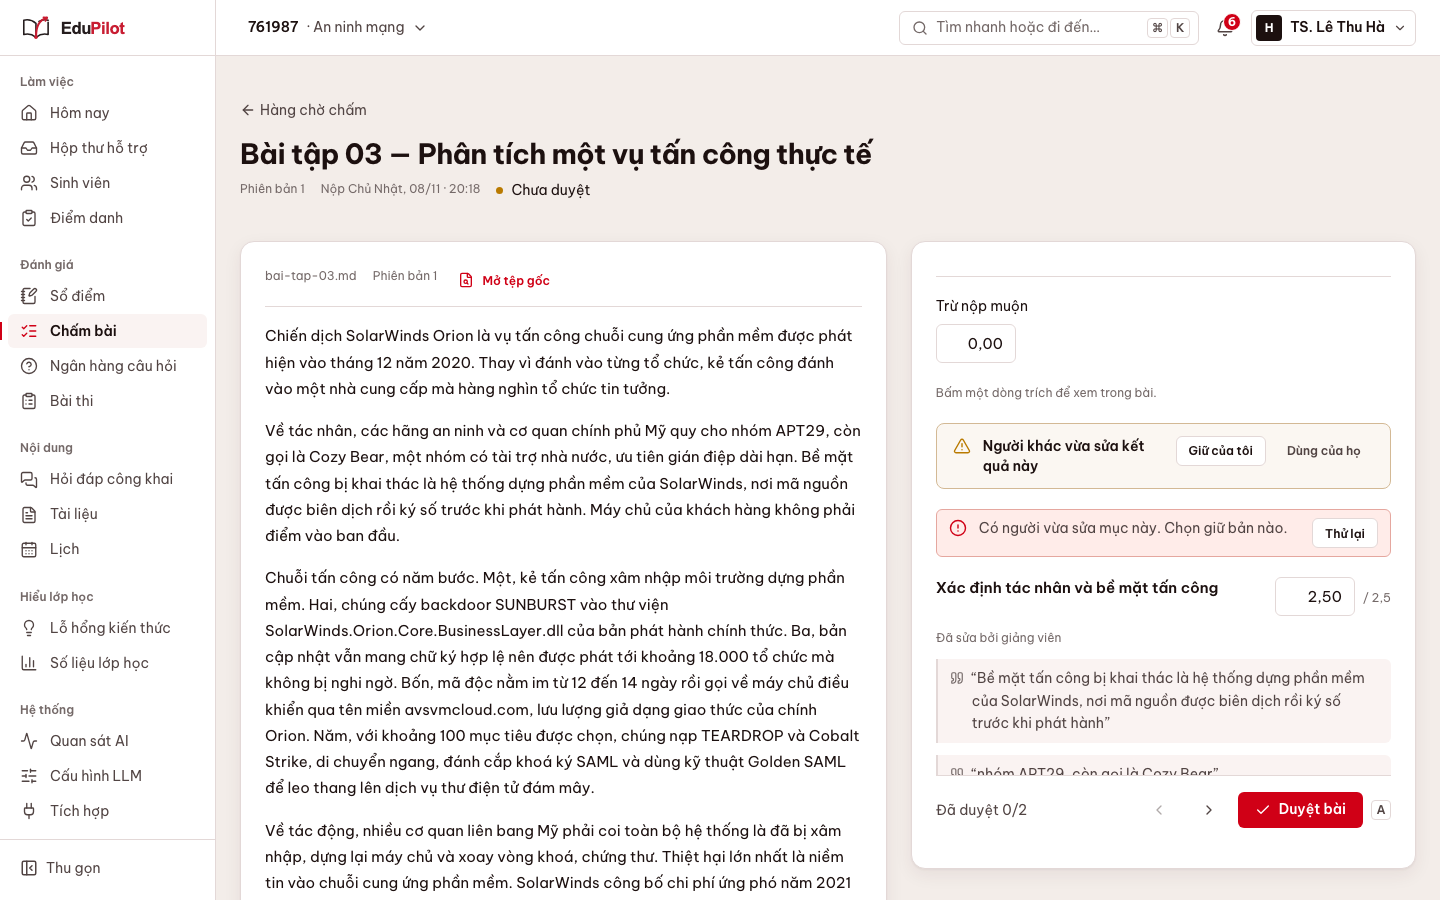
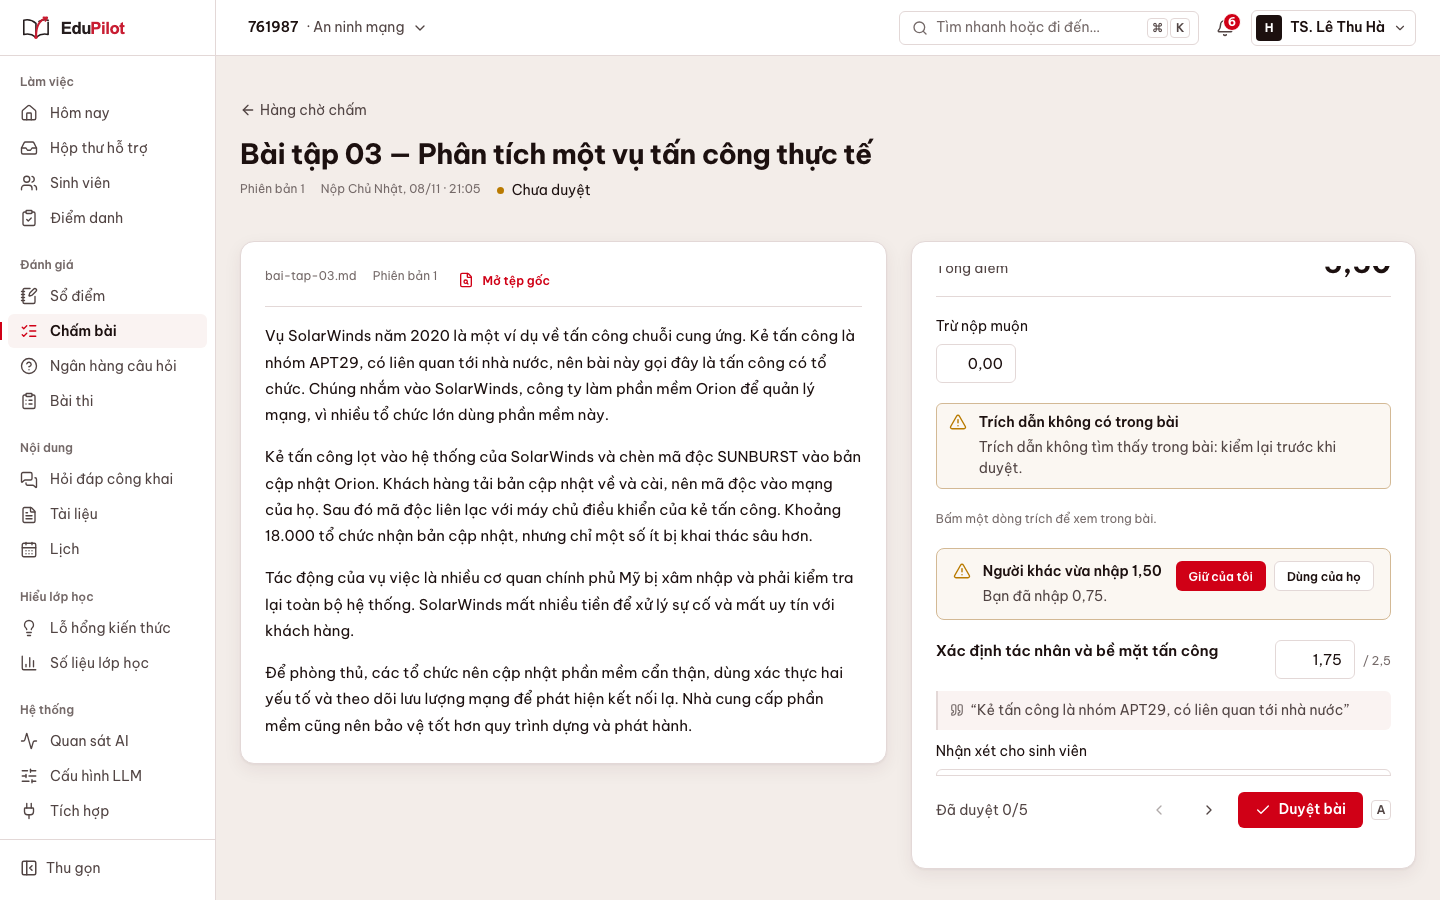
9.1: QC đợt 4 lượt 3 ở 673441c5: PASS (UX15-14 409 đạt, UX16-24 30/30 trên DB sạch)

diff --git a/docs/sprints/9.1/qc/wave-4.md b/docs/sprints/9.1/qc/wave-4.md
@@ -1,15 +1,15 @@
 # QC đợt 4 — Chấm bài, sổ điểm, điểm danh (US-UX91-14, 15, 16, 12) + US-04 AC7
 
-**Kết luận lượt 2 (`8ae5393f`, gồm sửa của dev `1ebfa26e` + `ed0aa499`): FAIL.** US-14 PASS · US-12 PASS · US-16 PASS (riêng TC-UX16-24 chờ chạy lại trên DB sạch, xem dưới) · US-15 **FAIL** vì AC7 nhánh 409 (lỗi mới #8, mức Trung bình). 7 lỗi lượt 1: 7 đã sửa. Lượt 1 (`f8a744bd`): FAIL (US-15, 16, 12).
+**Kết luận lượt 3 (`673441c5`, dev: «sửa QC đợt 4 lỗi #8»): PASS.** US-14, 15, 16, 12 PASS; US-04 AC7 PASS. 8/8 lỗi đã sửa. Lượt 2 (`8ae5393f`): FAIL vì US-15 AC7 nhánh 409 (lỗi #8, Trung bình). Lượt 1 (`f8a744bd`): FAIL (US-15, 16, 12).
 Môi trường lượt 2: Mac (Apple Silicon, Colima), stack `-p ep-qc` `EP_PORT_OFFSET=500` (`https://localhost:943`), mock LLM, seed 30 SV + docling; spec `qc-uiux91-w4*-real` (+ `w4f`, `w4g` mới).
 
-## Kiểm lại lần 2 ở `8ae5393f`
+## Kiểm lại lần 2 (`8ae5393f`) và lần 3 (`673441c5`)
 | TC | Trước | Nay | Ghi chú |
 | --- | --- | --- | --- |
 | UX15-6 (AC3 thanh dưới) | FAIL (Thấp) | PASS | 1440×900 lúc mở: `top 775, bottom 844` (< 900), `sticky`, nút `Duyệt bài` đủ |
 | UX15 tiến độ N/M (AC3, AC4) | FAIL (Thấp) | PASS | `Đã duyệt 0/7` → bấm → `?n=1&m=7`, `Đã duyệt 1/7`; phím `A` → `2/7` (M cố định) |
 | UX15-13 (AC7 lỗi mạng) | FAIL (TB) | PASS | Chặn `POST …/review`: thanh dưới «Không kết nối được tới máy chủ. Chữ bạn đã nhập vẫn được giữ. `Thử lại` Đã duyệt 0/3 Duyệt bài A»; điểm còn nguyên; bỏ chặn → `Thử lại` duyệt được |
-| **UX15-14 (AC7 409 thật)** | CHƯA CHẠY | **FAIL (TB)** | Lỗi #8. Xem dưới |
+| **UX15-14 (AC7 409 thật)** | CHƯA CHẠY (lượt 1) → FAIL (TB) (lượt 2) | **PASS (lượt 3, `673441c5`)** | Người kia `PUT` trước; ô tôi sửa giữ `0,75` (không lùi); một thông báo «Người khác vừa nhập 1,50 · Bạn đã nhập 0,75» + `Giữ của tôi` / `Dùng của họ`, không còn dải đỏ thứ hai; `Giữ của tôi` → API lưu `0.75`. Ảnh `shots/wave-4/review-409.png` |
 | UX16-1 (ô nhập đệm 0) | FAIL (Thấp) | PASS | 24 giá trị ô nhập đều `x,xx` (`5,00 … 10,00 9,75`); focus hiện thô «5» |
 | UX16-4/5 (`⋯` tiêu đề) | FAIL (Thấp) | PASS | Nút `⋯` ở tiêu đề cột nhập: opacity 0 → 1 khi rê, → 1 khi focus. Nút «Hành động — tên» mỗi hàng vẫn thường trực (AC2 chỉ nói tiêu đề cột; ghi chú, không tính lỗi) |
 | UX16-21 (AC10, 375) | FAIL (Thấp) | PASS | Ô nhập 44 px, không tràn trang |
@@ -22,15 +22,11 @@ Môi trường lượt 2: Mac (Apple Silicon, Colima), stack `-p ep-qc` `EP_PORT
 | UX14-11 (AC8, 375) | PASS | PASS | Danh sách thẻ; hộp `Duyệt` 309×44, không tràn ngang |
 | UX16-15/16/19/20 | PASS | PASS | Hộp «Chốt 30 sinh viên · phân bố … · 1 sinh viên liệt», Esc không chốt (`OPEN`); TA `POST finalize` 403, không có nút |
 | UX04-12/13/14 | PASS | PASS | `ep-saved` 200 ms ở sổ điểm, điểm danh, nhận xét |
-| UX16-24 (khớp CSV) | PASS (30/30) | **CHƯA KẾT LUẬN** | Lượt này 29/30: `20229002` API 7,5 ≠ CSV 7,0. Do QC tự ghi thêm phát biểu ở UX12 (hàng này `+5`, mỗi lượt +2). Sẽ chạy lại đầu tiên trên DB seed sạch |
+| UX16-24 (khớp CSV) | PASS (30/30) | **PASS (30/30)** | Lượt 2 trên DB đã bị QC ghi thêm phát biểu: 29/30 (`20229002` 7,5 ≠ 7,0). Chạy lại ngay sau khi dựng DB sạch (`down -v` + seed) ở `b02eeb68`: `khớp 30/30; lệch: (không)` |
 | UX16-10 (cột Trạng thái) | PASS có ghi chú | PASS có ghi chú | Còn 1 SV «Liệt» nên cột còn (như lượt 1) |
 
-### Lỗi mới #8 — US-15 AC7 (409): mất điểm đã nhập, không hiện giá trị người kia — Trung bình
-Tái hiện (đã chạy thật, `w4g-real`): mở `/grading/‹id›` của một bài DRAFT; người kia `PUT /courses/‹c›/grading-results/‹result_id›` `{version, criteria:[{id, score:"1.25"}]}` (version + 1); trong trang, sửa điểm tiêu chí 2 thành `0,75` rồi rời ô.
-- UI hiện «Người khác vừa sửa kết quả này [Giữ của tôi] [Dùng của họ]» **và thêm** dải đỏ «Có người vừa sửa mục này. Chọn giữ bản nào. [Thử lại]» (hai thông báo cho một lỗi; ảnh `shots/wave-4/review-409.png`).
-- Ô điểm **tự lùi về giá trị cũ** (`1,50`), không phải `0,75` (của tôi) cũng không phải `1,25` (của người kia). Thông báo không nêu giá trị của người kia.
-- Bấm `Giữ của tôi` → API lưu `1.50` (không phải `0.75`). Chữ người dùng gõ bị mất; trái AC7 («hiện giá trị của người kia và hỏi giữ bên nào») và `CLAUDE.md` («không làm mất chữ người dùng đã gõ»).
-- Nghi: `frontend/src/features/grading/SubmissionReview.tsx` — `useUndoableAction.rollback` (≈ dòng 190–200) chạy trước/cùng `handle()` khi `VERSION_CONFLICT`, nên `scores` mất giá trị đã gõ; nút `Giữ của tôi` (≈ dòng 436) lấy `scoreOf(c)` đã bị lùi; `setNotice` hiện thêm dải đỏ. Sổ điểm (UX16-12) làm đúng, có thể lấy làm mẫu.
+### Lỗi #8 — US-15 AC7 (409): đã sửa ở `673441c5`
+Lượt 2 (`8ae5393f`): sau 409, ô điểm tự lùi về giá trị cũ, thông báo không nêu giá trị người kia, `Giữ của tôi` lưu số cũ, kèm dải đỏ thừa (Trung bình). Lượt 3: xem hàng UX15-14. Hồi quy: 6 ca `TC-UX15` (`w4-real`, `w4c`) PASS ở `673441c5` (thanh dưới `775 → 844`, lỗi mạng ở thanh dưới + `Thử lại`, phím `A`, `N/M`).
 
 ## Môi trường (lượt 1, `f8a744bd`)
 | Mục | Giá trị |
@@ -127,4 +123,4 @@ UX15-14 (409 điểm), UX16-12 (xung đột ô), UX16-17 (hai lần xác nhận 
 | # | Mức | Vị trí | Trạng thái |
 | --- | --- | --- | --- |
 | 1–7 | Trung bình / Thấp | US-15 AC7 (lỗi mạng), AC3, AC3/4; US-16 AC1, AC2, AC10; US-12 AC7 | Đã sửa, PASS ở `8ae5393f` |
-| 8 | Trung bình | US-15 AC7 (409) | **Mở.** Xem «Lỗi mới #8» |
+| 8 | Trung bình | US-15 AC7 (409) | Đã sửa ở `673441c5`, PASS |
